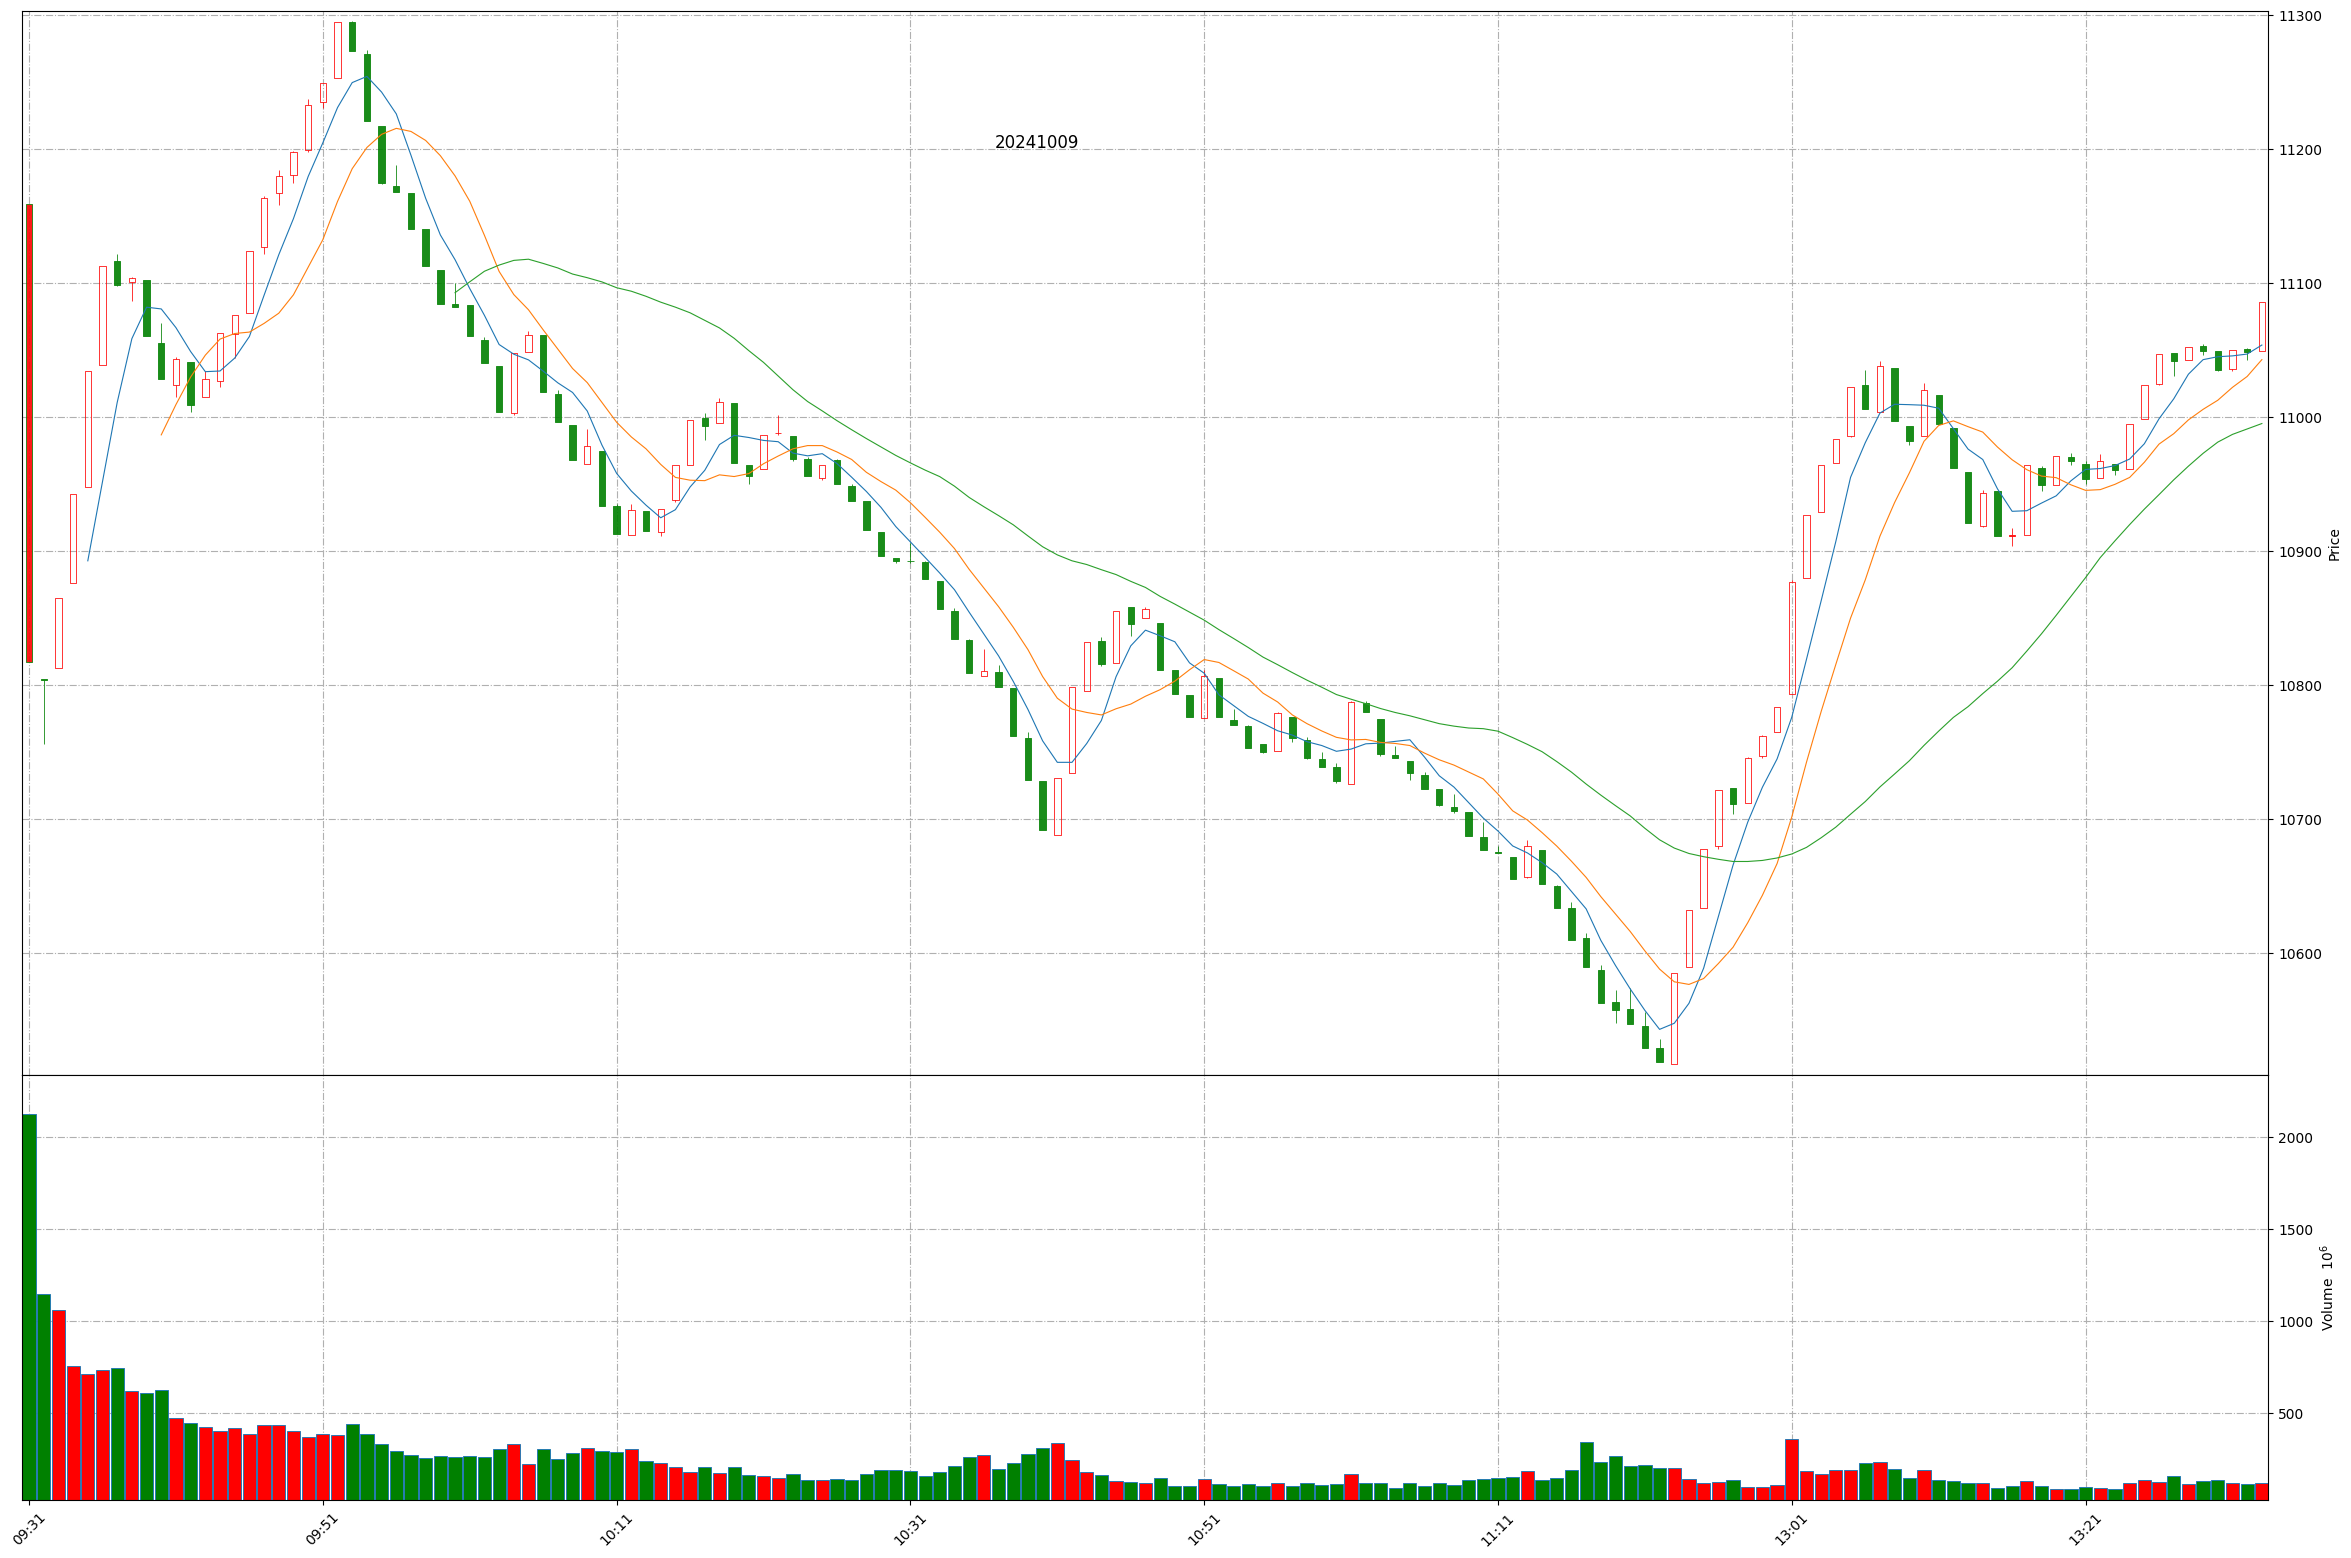
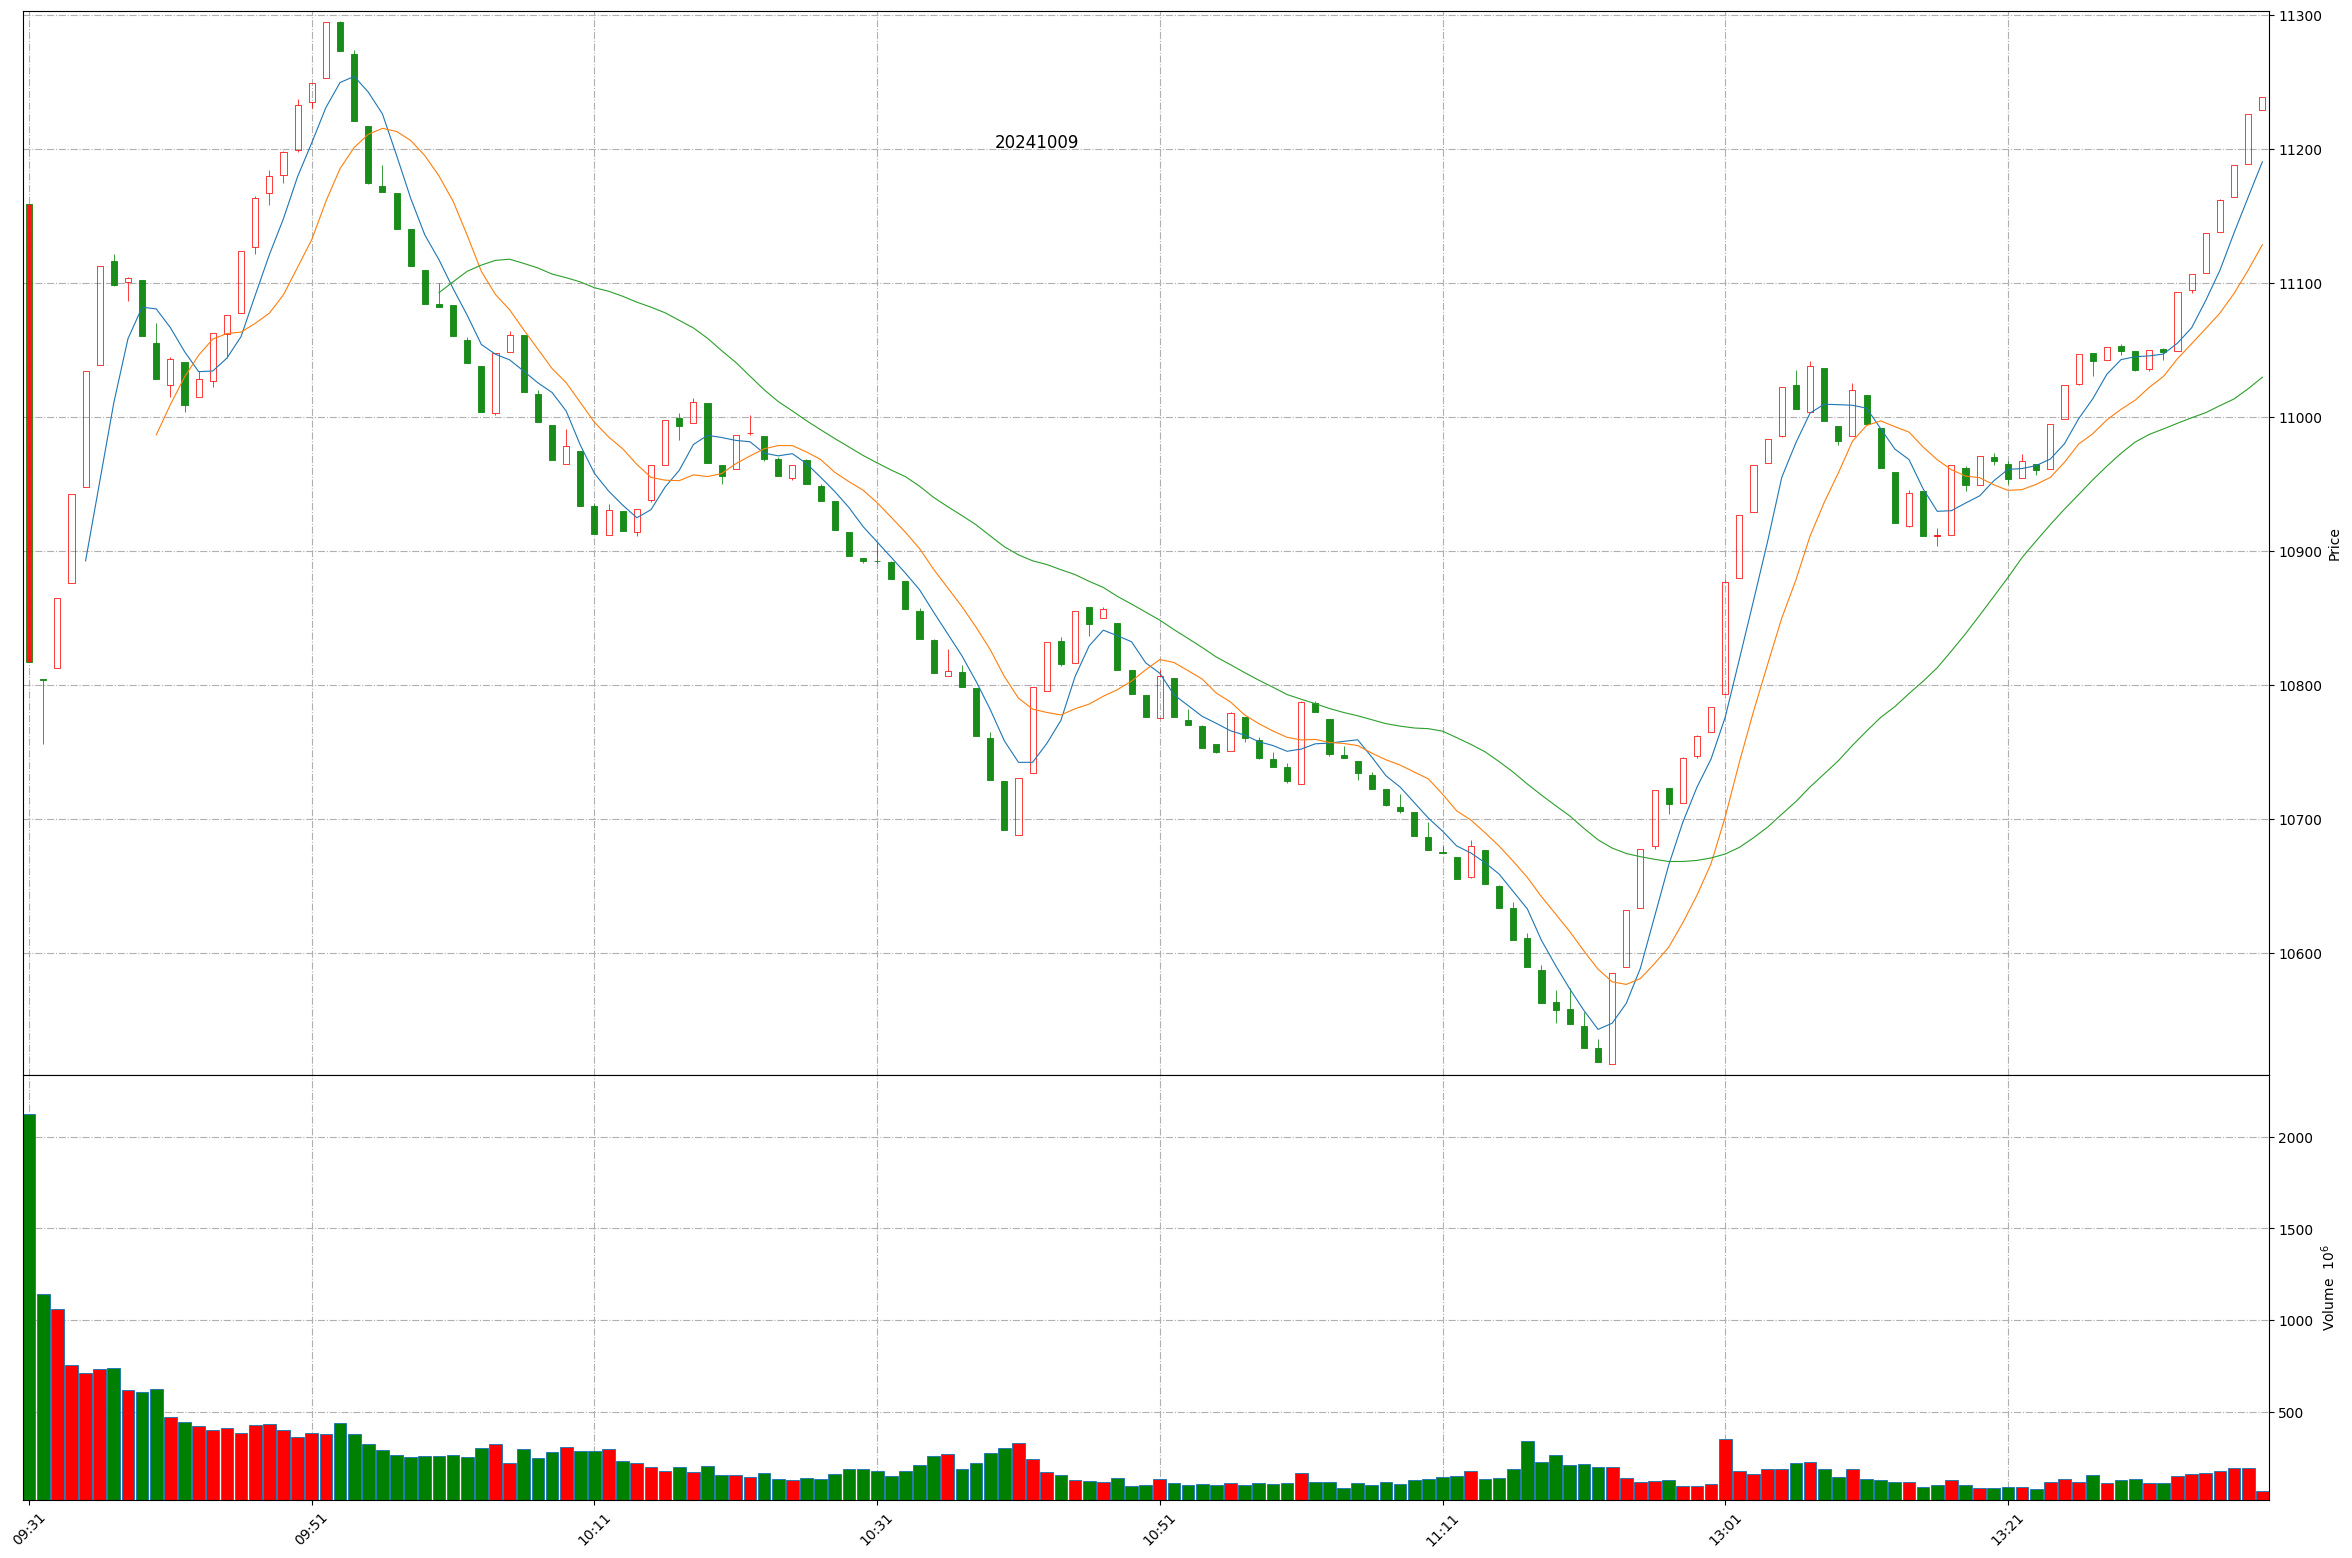
Github action update at 2024-10-09 13:38:32.

diff --git a/README.md b/README.md
@@ -1,11 +1,11 @@
 
 # Daily-A-share-market-quotes 每日 A 股指数（5min 更新）- 20241009
 
-### 上证指数 20241009 13:33
+### 上证指数 20241009 13:38
 ![](./fig/2024/10/20241009-sh000001.png)
 
-### 深证成指 20241009 13:33
+### 深证成指 20241009 13:38
 ![](./fig/2024/10/20241009-sz399001.png)
 
-### 北证50 20241009 13:33
+### 北证50 20241009 13:38
 ![](./fig/2024/10/20241009-bj899050.png)
